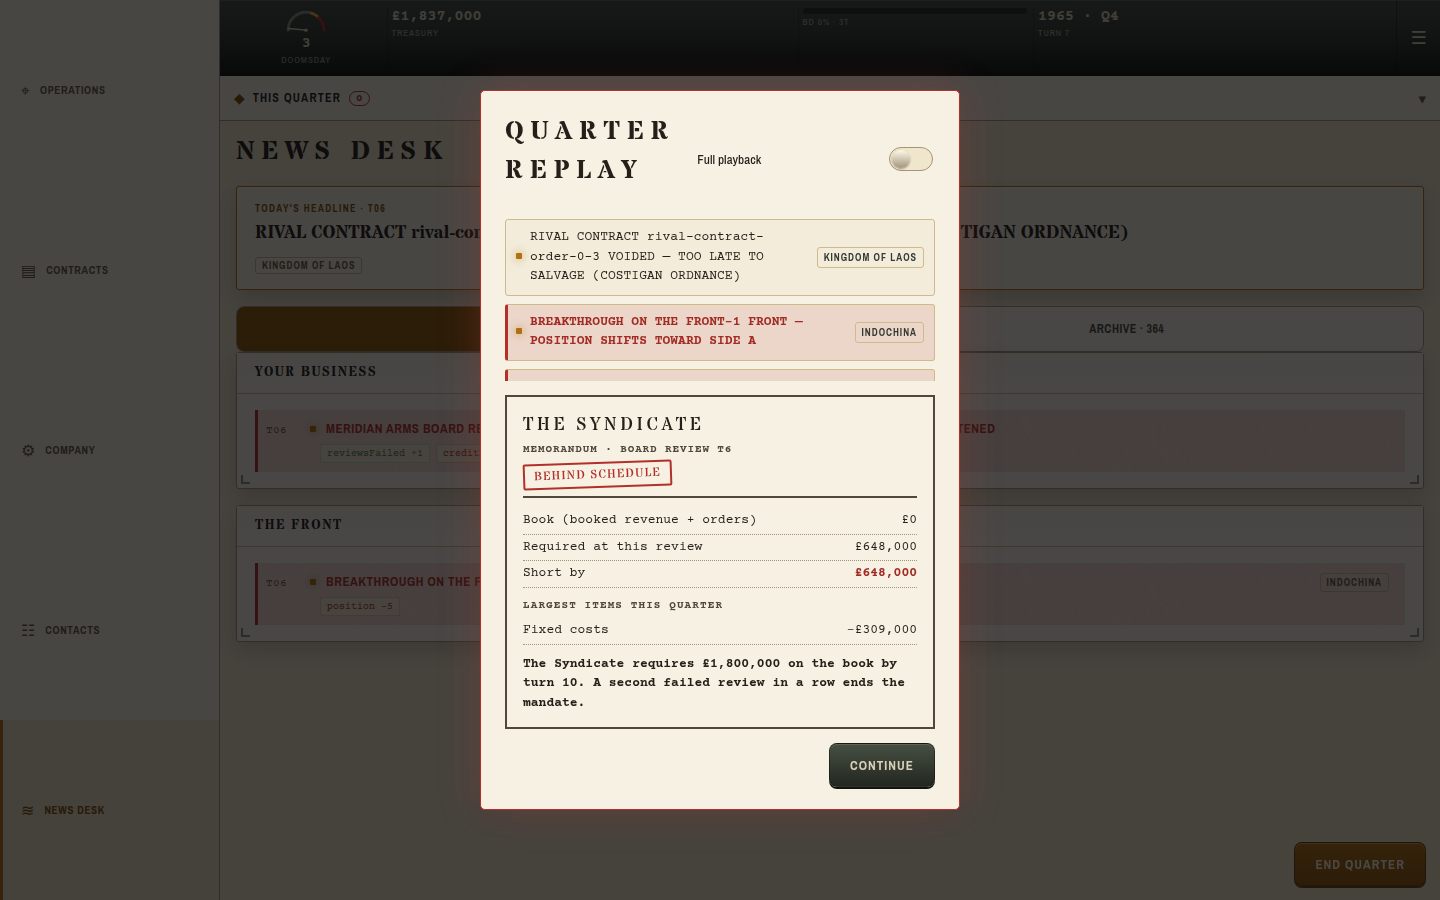
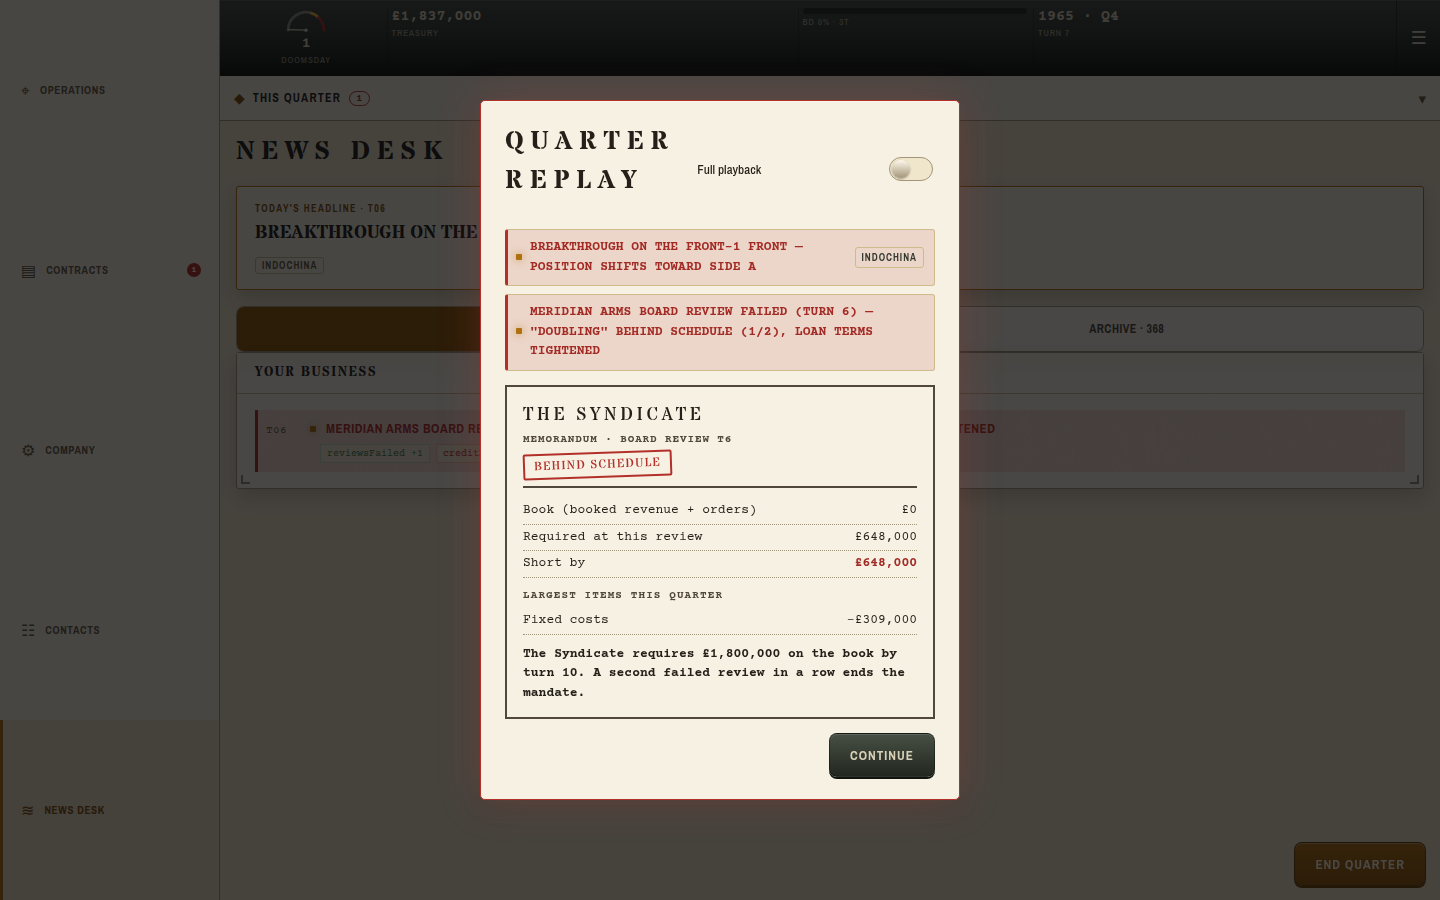
P99b: skärmen policy-warning i e2e och shots — varningen på NEWS DESK
IndexedDB-injektion (tjänstemannens relation 0 vid tur 4) eftersom ingen mekanik
sänker relationen i ett riktigt parti. Täcks av regel 11/18 och axe. Skärmdumpar
uppdaterade; e2e 173 gröna två gånger i rad.

Claude-Session: https://claude.ai/code/session_01HPWpBqFKLxCRMu2YsxqYgR

diff --git a/packages/app/e2e/screens.ts b/packages/app/e2e/screens.ts
@@ -287,6 +287,52 @@ export async function enterContractsBidOpen(page: Page): Promise<void> {
   await page.getByTestId('bid-form').waitFor()
 }
 
+// P99b (EMBARGO-fällan): varningen turen före ett policybeslut. Ett riktigt parti når den inte
+// (ingen mekanik sänker en tjänstemans relation, se ANDRINGSLOGG P99b), så samma IndexedDB-
+// injektion som enterCrisis: sänk NLF-försvarstjänstemannens relation till 0 vid tur 4 och
+// avsluta ett kvartal — varningen hamnar på NEWS DESK:s förstasida som en blixt.
+export async function enterPolicyWarning(page: Page): Promise<void> {
+  await page.getByTestId('menu-new-game').click()
+  await page.getByTestId('newgame-submit').click()
+  await page.getByTestId('briefing-begin').click()
+  await page.getByTestId('hud').waitFor()
+  await page.evaluate(async () => {
+    const dbReq = indexedDB.open('seventh-front', 1)
+    const db = await new Promise<IDBDatabase>((resolve, reject) => {
+      dbReq.onsuccess = () => resolve(dbReq.result)
+      dbReq.onerror = () => reject(dbReq.error)
+    })
+    const tx = db.transaction('saves', 'readwrite')
+    const store = tx.objectStore('saves')
+    const getReq = store.get('save:default')
+    const saved = await new Promise<{
+      state: { meta: { turn: number }; officials: Record<string, { relationToPlayer: number; standing: number; agenda: string }> }
+    }>((resolve, reject) => {
+      getReq.onsuccess = () => resolve(getReq.result)
+      getReq.onerror = () => reject(getReq.error)
+    })
+    saved.state.meta.turn = 4
+    for (const o of Object.values(saved.state.officials)) {
+      if (o.agenda === 'NON_ALIGNMENT') {
+        o.relationToPlayer = 0
+        o.standing = 80
+      }
+    }
+    await new Promise((resolve, reject) => {
+      const putReq = store.put(saved, 'save:default')
+      putReq.onsuccess = () => resolve(undefined)
+      putReq.onerror = () => reject(putReq.error)
+    })
+  })
+  await page.reload()
+  await page.getByTestId('menu-continue').click()
+  await page.emulateMedia({ reducedMotion: 'reduce' })
+  await page.getByTestId('end-quarter-button').click()
+  await page.getByText('IS PREPARING').first().waitFor({ state: 'attached', timeout: 5000 })
+  await page.getByTestId('tab-news').click()
+  await page.getByText('IS PREPARING').first().waitFor()
+}
+
 export const SCREENS: { name: string; path: string; setup?: (page: Page) => Promise<void> }[] = [
   { name: 'components', path: '/?screen=components' },
   { name: 'main-menu', path: '/' },
@@ -308,4 +354,5 @@ export const SCREENS: { name: string; path: string; setup?: (page: Page) => Prom
   { name: 'company-ledger', path: '/', setup: enterCompanyLedger },
   { name: 'ledger-vouchers', path: '/', setup: enterLedgerVouchers },
   { name: 'board-memo', path: '/', setup: enterBoardMemo },
+  { name: 'policy-warning', path: '/', setup: enterPolicyWarning },
 ]

diff --git a/CLAUDE.md b/CLAUDE.md
@@ -722,7 +722,9 @@ förskottet om budet vinner); `orderTerms`/`advanceAmount` i core (ren läsning)
 innan (`Official.policyWarningTurn`, `politics.ts`). `passive` vinner nu 90/100 (var 0), övriga botar 1–7 —
 **`passive` är fortfarande den enda bot som vinner regelbundet**. Nytt spelbarhetstest
 (`harness/test/playability.test.ts`: minst en bot ≥ 30 % vinst). Golden omfryst i egen commit. Ingen kod
-sänker en tjänstemans relation, så varningen nås inte i vanligt spel — se ANDRINGSLOGG. P100 är inte påbörjad.
+sänker en tjänstemans relation, så varningen nås inte i vanligt spel — se ANDRINGSLOGG; skärmen `policy-warning`
+(e2e/shots) når den via IndexedDB-injektion. Fullt svep grönt: 1 135 tester, lint, typecheck, build, e2e (173,
+körd två gånger i rad). P100 är inte påbörjad.
 **Läs specens egna avsnitt för den prompt du kör innan du börjar** — den är skriven för att
 följas ordagrant, inte för att tolkas.
 

diff --git a/docs/ETAPP8_FORSLAG.md b/docs/ETAPP8_FORSLAG.md
@@ -588,6 +588,9 @@ nästa kvartal. *Klart när:* alla tre syns utan att mappen scrollas på 390×84
 > **Spelbarhetstest:** `packages/harness/test/playability.test.ts` (30 partier per bot, kräver att
 > någon bot vinner ≥ 30 %; ≈ 6 s, i standardsviten; negativkontroll: med start 0 blir det rött,
 > `passive` 0/30).
+> **UI:** varningen syns redan som blixt på NEWS DESK:s förstasida (mönstret i `newsClassification.ts`); ny
+> skärm `policy-warning` i `e2e/screens.ts` och `scripts/shots.mjs` (IndexedDB-injektion, samma teknik som
+> krisen) täcks av regel 11/18 och axe.
 
 **P100 — Stående order i kärnan.** Unionen, lagringen och de tre slagen med sina tre larm.
 *Klart när:* varje slag och varje larm har ett test, befintliga botars beteende är oförändrat,
